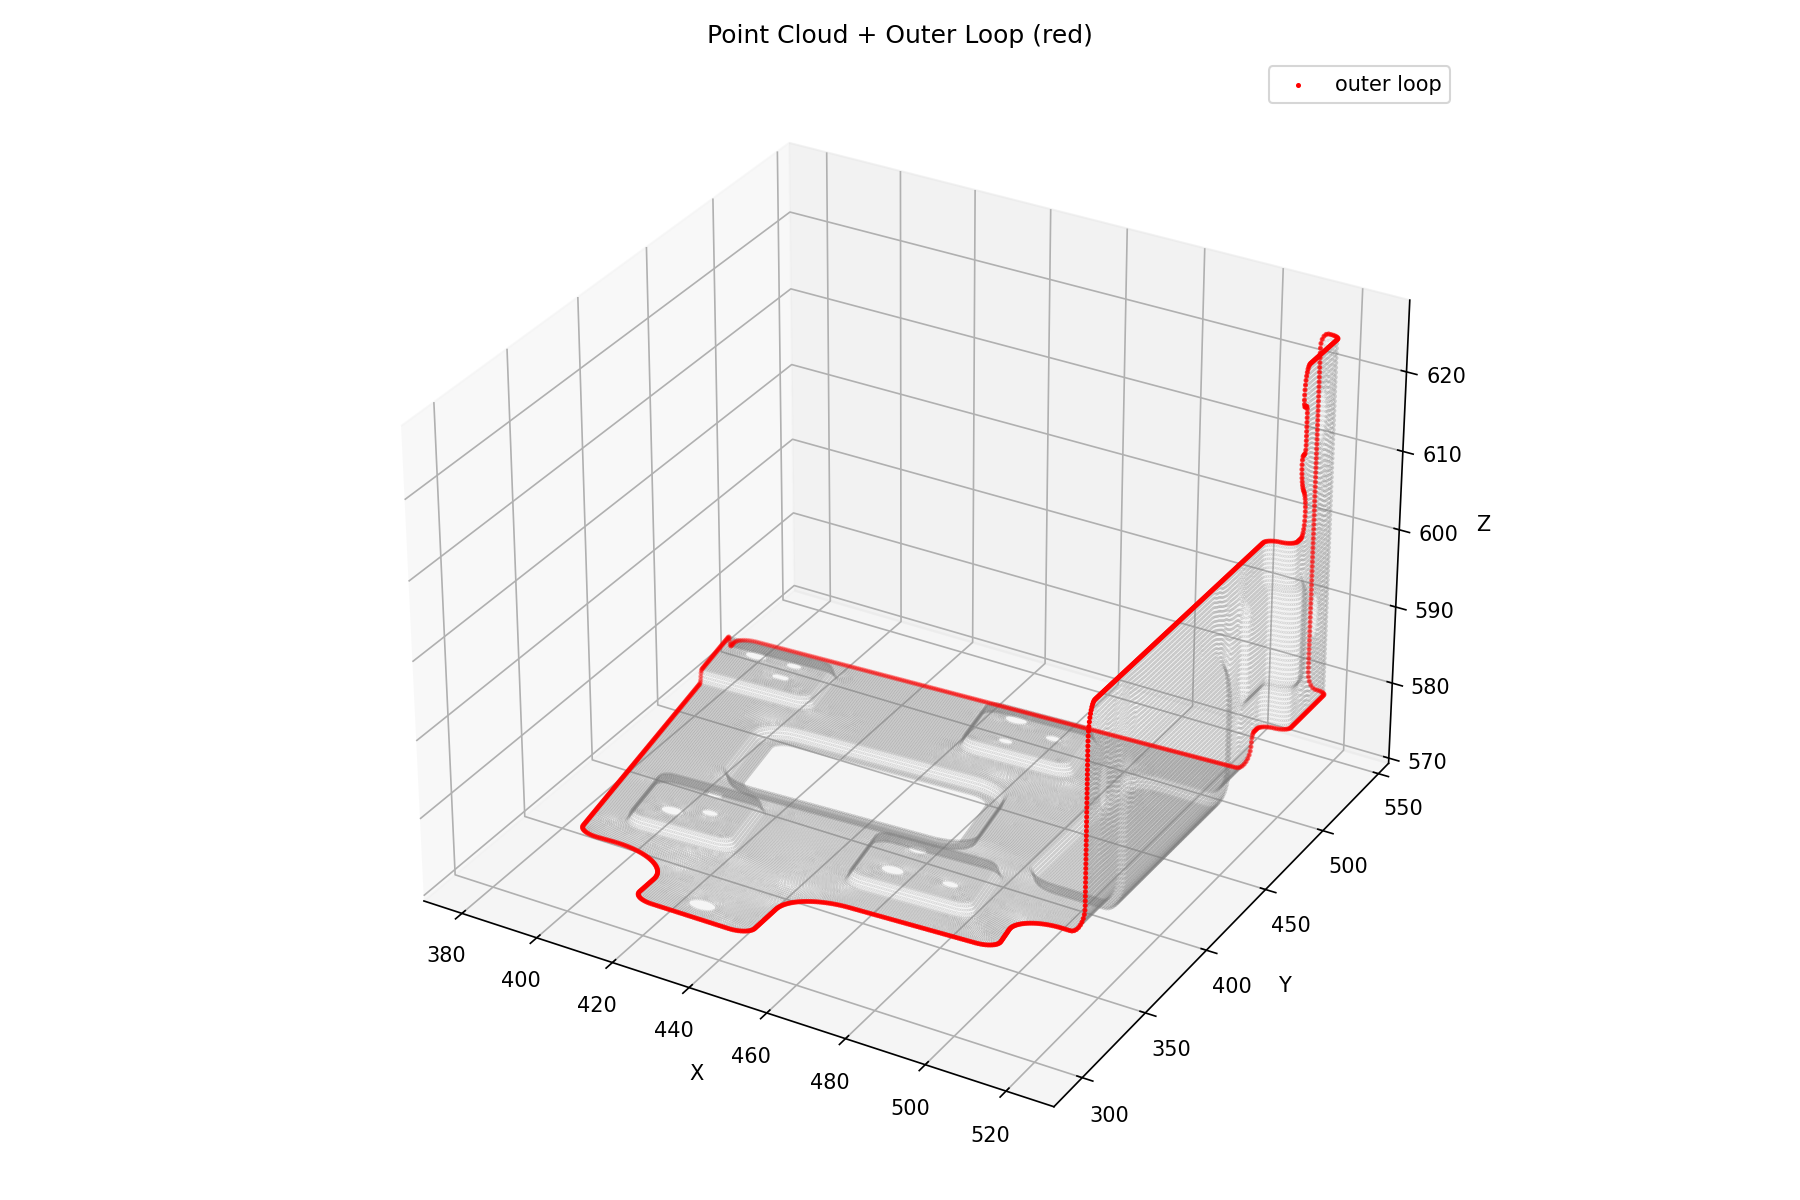
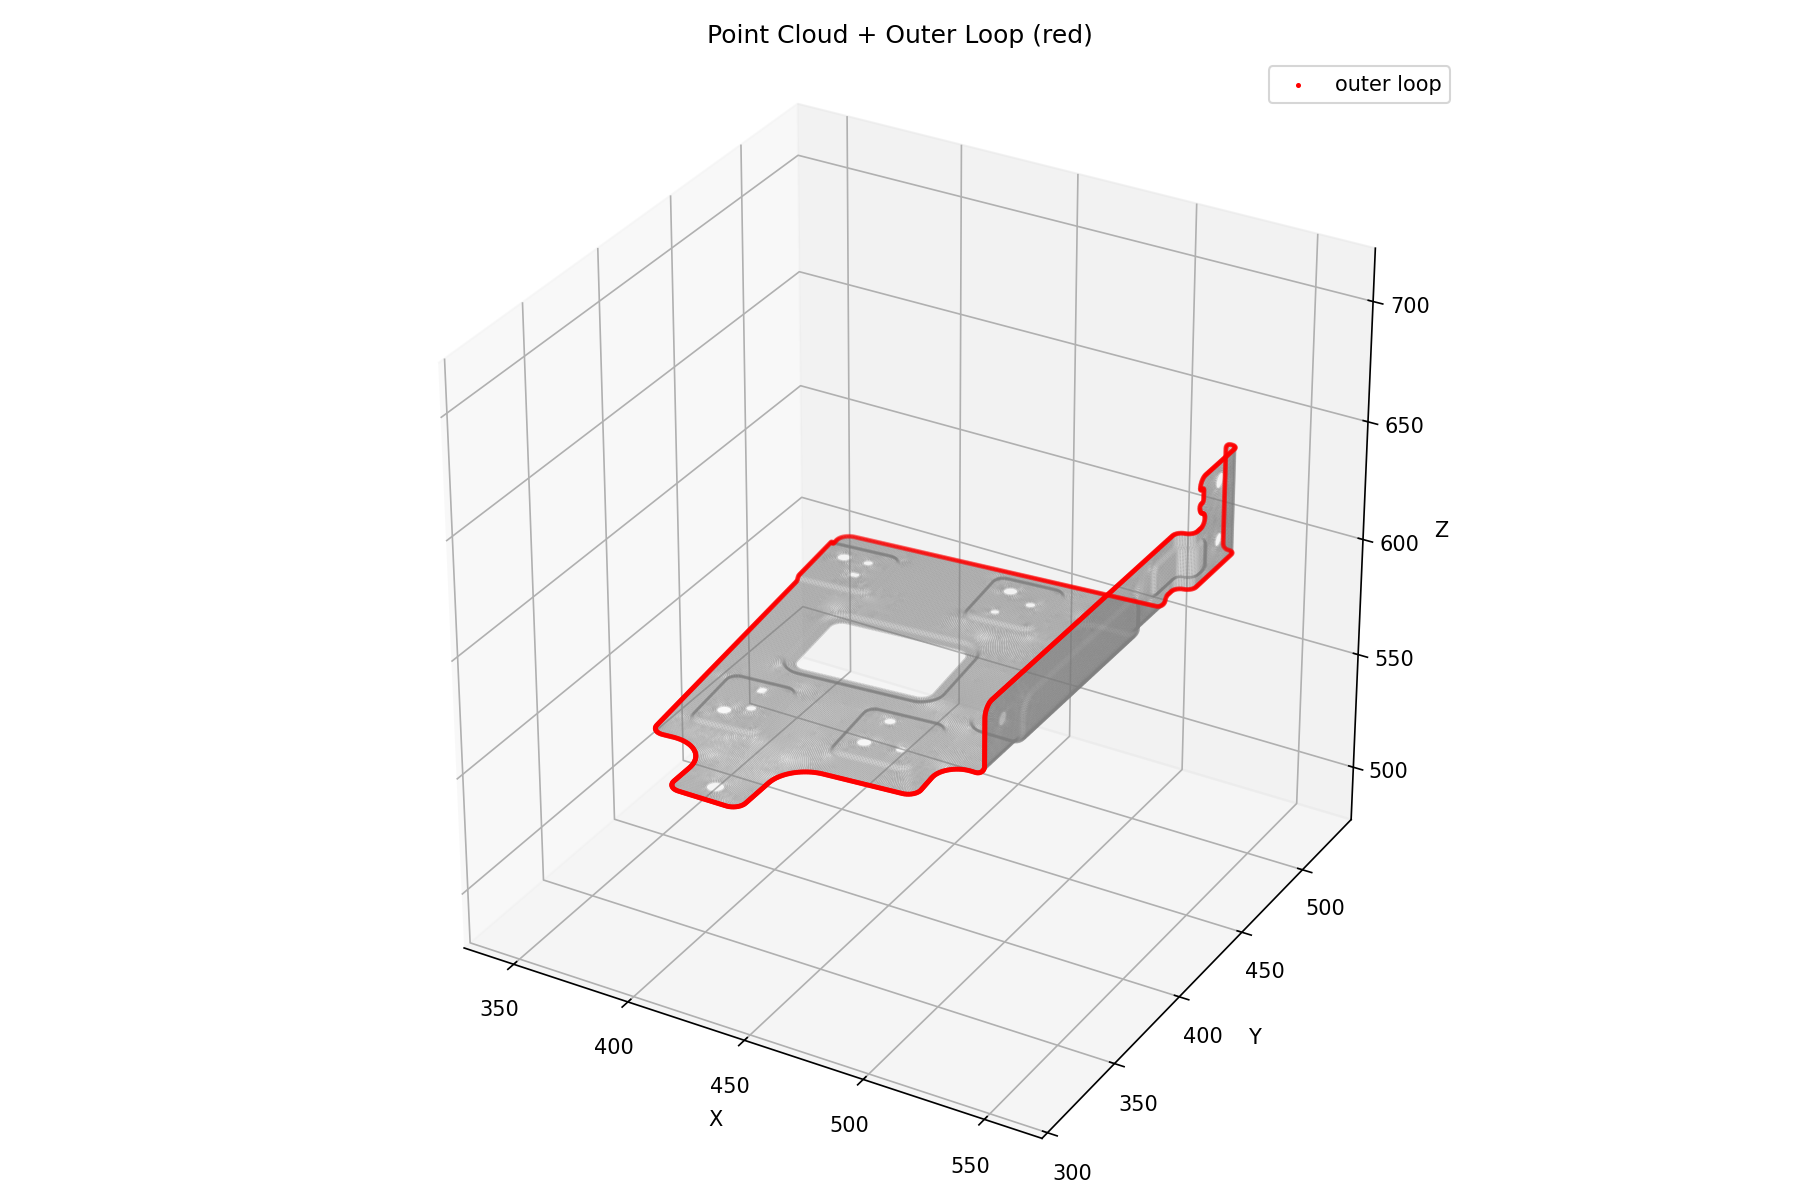
to_2d v2: remesh + BFS all-node color + equal aspect - 2026-04-22 01:57 KST

diff --git a/README.md b/README.md
@@ -4,7 +4,7 @@ This repo is used to share result images from Claude Code.
 
 **Timezone: KST (UTC+9)** — Server time is 9 hours behind KST.
 
-## MOBIS_GEN to_2d.ipynb full run (2026-04-22 01:50 KST)
+## MOBIS_GEN to_2d.ipynb + remesh + equal aspect (2026-04-22 01:57 KST)
 
 ### 1. Point Cloud
 ![pointcloud](pointcloud.png)
@@ -12,13 +12,13 @@ This repo is used to share result images from Claude Code.
 ### 2. Outer Loop
 ![outer_loop](outer_loop.png)
 
-### 3. Region Growing (holes filled)
+### 3. Region Growing (holes remeshed)
 ![regions_fixed](regions_fixed.png)
 
 ### 4. Flatten Result (Original / Flat / Bend)
 ![flatten_result](flatten_result.png)
 
-### 5. Cylinder Detected (R=3.782, bend=90°)
+### 5. Cylinder Detected (BFS: all nodes classified)
 ![cylinder_detected](cylinder_detected.png)
 
 ### 6. Unroll Before/After
